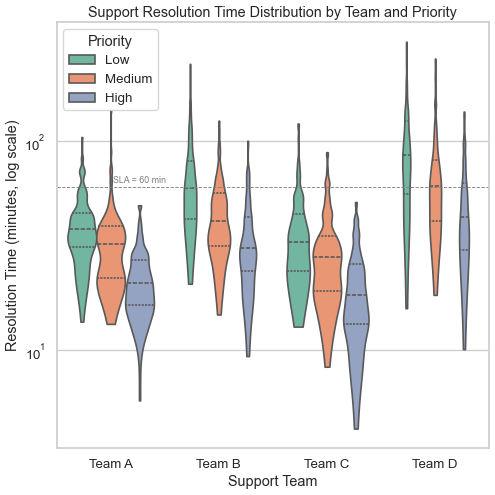
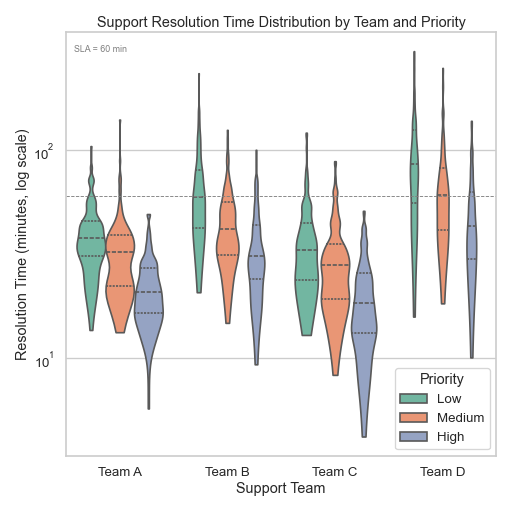
Updated image size to 512

Changed region(s): [[0.0, 0.0, 1.0, 1.0]]

diff --git a/Week 8/Q5/chart.py b/Week 8/Q5/chart.py
@@ -38,9 +38,12 @@ sns.set_style('whitegrid')
 sns.set_context('talk', font_scale=0.9)
 palette = sns.color_palette('Set2')
 
-# Draw violinplot
-plt.figure(figsize=(8, 8))  # 8in * 64dpi = 512px
-ax = sns.violinplot(
+# Create figure with explicit DPI so figsize * dpi = exact pixels (8in * 64dpi = 512px)
+fig, ax = plt.subplots(figsize=(8, 8), dpi=64)
+fig.patch.set_facecolor('white')
+
+# Draw violinplot on the explicit axes
+sns.violinplot(
     data=df,
     x='Team',
     y='ResolutionTime',
@@ -49,27 +52,27 @@ ax = sns.violinplot(
     cut=0,
     inner='quartile',
     bw=.2,
-    dodge=True
+    dodge=True,
+    ax=ax
 )
 
 # Improve y-axis scale for interpretability
 ax.set_yscale('log')
 ax.set_ylabel('Resolution Time (minutes, log scale)')
 ax.set_xlabel('Support Team')
-plt.title('Support Resolution Time Distribution by Team and Priority')
+ax.set_title('Support Resolution Time Distribution by Team and Priority')
 
 # Tidy up legend
-plt.legend(title='Priority')
+ax.legend(title='Priority')
 
-# Add a horizontal line for a target SLA (e.g., 60 minutes)
-plt.axhline(60, color='gray', linestyle='--', linewidth=1)
-plt.text(0.02, 60 * 1.05, 'SLA = 60 min', color='gray', fontsize=10)
+# Add a horizontal line for a target SLA (e.g., 60 minutes) and annotate using axes coordinates
+ax.axhline(60, color='gray', linestyle='--', linewidth=1)
+ax.text(0.02, 0.97, 'SLA = 60 min', color='gray', fontsize=10, transform=ax.transAxes, va='top')
 
 plt.tight_layout()
 
-# Save with exactly 512x512 pixels using 64 dpi
-plt.savefig('chart.png', dpi=64, bbox_inches='tight')
-plt.close()
+# Save with exact pixels: fig size (inches) * dpi => pixels. Avoid bbox_inches='tight' which crops padding.
+fig.savefig('chart.png', dpi=64)
+plt.close(fig)
 
-# Optionally print confirmation
-print('chart.png generated (512x512 expected at dpi=64).')
+print('chart.png generated (exact 512x512 pixels expected).')
